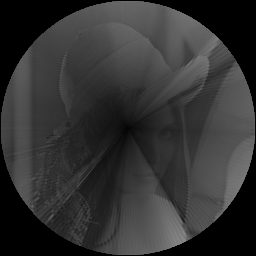
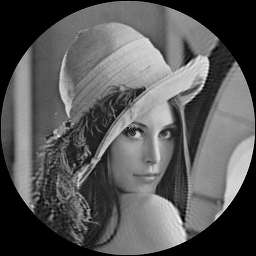
greyscale RHFMs done

diff --git a/src/fourier/FourierMomentsMonochrome.py b/src/fourier/FourierMomentsMonochrome.py
@@ -99,10 +99,10 @@ class FourierMomentsMonochrome:
 def calculate(N, maxP, maxQ, colorIndex, rs, thetas, img, sins, coss, Zre, Zim, zeros):
 	for k in range(N):
 		values = zeros.copy()
-		calculateFourierKernel(rs[k], maxP + 1, values)
-		# print("R = " + str(rs[k]))
-		# for i in range(len(values)):
-		# 	print("{}. = {}".format(i,values[i]))
+		calculateFourierKernel(rs[k], maxP, values)
+		for p in range(0, maxP + 1):
+			values[p] = rs[k]*values[p] # Why do we need this?
+		
 		for j in range(N):
 			for p in range(0, maxP + 1):
 				for q in range(0, maxQ + 1):
@@ -118,13 +118,12 @@ def reconstructImageArray(N, maxP, maxQ, rs, sins, coss, Zre, Zim, imageArray, z
 				continue
 			values = zeros.copy()
 			calculateFourierKernel(rs[x,y], maxP, values)
-			value = 0 # Monochrome
+			value = 0 # Greyscale
 			for p in range(0, maxP + 1):
 				value += values[p] * (Zre[p,0] * coss[x,y,0] - Zim[p,0] * sins[x,y,0])
 				for q in range(1, maxQ + 1):
 					value += 2 * values[p] * (Zre[p,q] * coss[x,y,q] - Zim[p,q] * sins[x,y,q])
 
-			# print("x {}, y {}, value {}".format(x,y,value))
 			if value > 255:
 				value = 255
 			elif value < 0:

diff --git a/src/RadialPolynomials.py b/src/RadialPolynomials.py
@@ -37,11 +37,11 @@ def calculateFourierKernel(r, maxP, values):
 	Assumes r in [0..1]
 	"""
 	# TODO: What if r == 0?
-	# if r == 0:
-	# 	r = 1e-6
+	if r < 1e-8:
+		r = 1e-8
 
-	values[0] = np.sqrt(r)
-	sq2r = np.sqrt(r / 2.0)
+	values[0] = 1.0 / np.sqrt(r)
+	sq2r = np.sqrt(2.0 / r)
 	# Even p
 	for p in range(2, maxP + 1, 2):
 		values[p] = sq2r * np.cos(np.pi * p * r)
